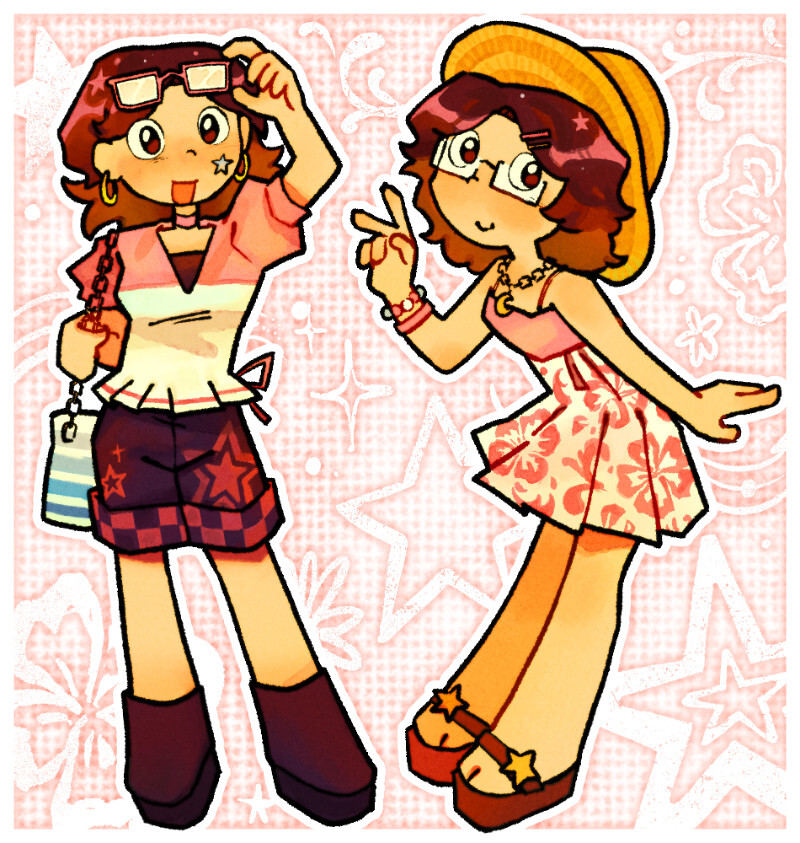
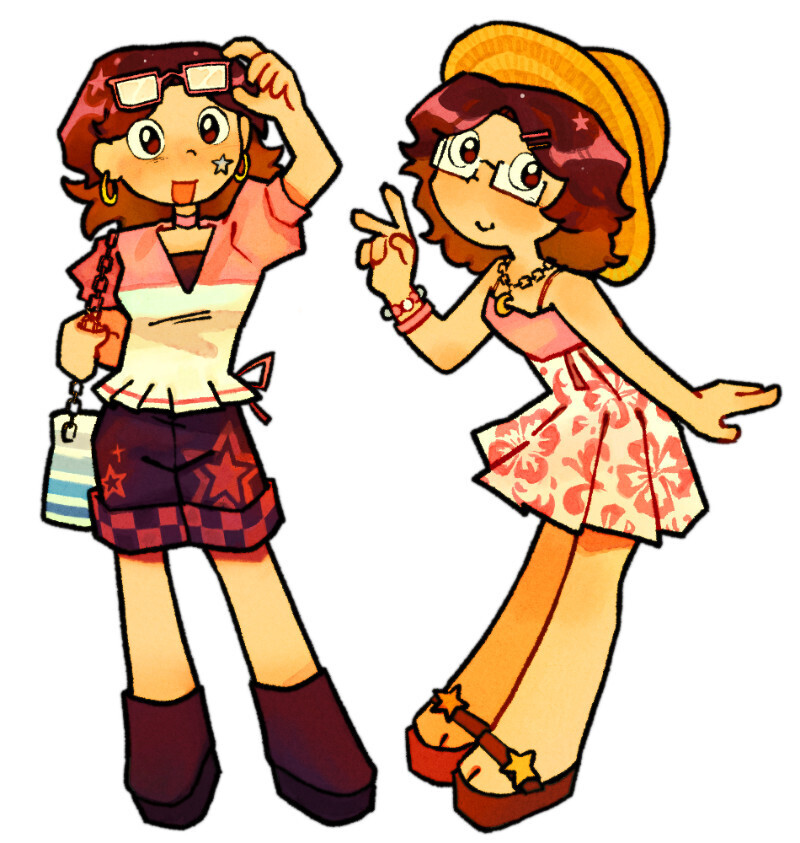
created commission sheet

diff --git a/public/commission/index.html b/public/commission/index.html
@@ -1,0 +1,165 @@
+---
+layout: page
+title: Commission Me!!
+
+js:
+- "/meta/js/lightbox.js"
+
+css:
+- "/commission/main.css"
+
+# status: Open
+status: Close
+
+prices:
+  - type: Head 
+    price: 10
+    pos: 70%
+
+  - type: Half Body
+    price: 15
+    pos: 40%
+
+  - type: Full Body
+    price: 20
+    pos: 5%
+
+abstract: 30
+full: 50
+
+dos:
+- Humans / Feral / Anthro
+- Cheezy Blood Splatters
+- Props and weapons
+
+donts:
+- NSFW / Gore
+- Politics
+- Mecha
+
+process:
+- title: Prerequisite
+  text: |
+    What I should know beforehand:
+    <br>★ Who I'm drawing - reference sheets appreciated!
+    <br>✮ What they're doing and overall vibe of drawing
+    <br>★ Why you want this drawing
+    
+- title: Payment
+  text: Payments done on [Paypal](https://paypal.me/stupiedidiot). First half payed after sketch and the rest once completed. Alternatively, you could pay in full.
+- title: Updates
+  text: |
+    Will provide updates during the following stage:
+    <br>★ thumbnails / initial sketch
+    <br>✮ sketch (w/ rough color)
+    <br>★ final - for last minute changes
+
+---
+
+{% include_cached layout/subnav.liquid data=site.data.nav.commission %}
+
+<article class="padded">
+    <h1><span class="icon-grin"></span> {{ page.title }}!!! <span class="clr-accent-dk">({{ page.status }})</span></h1>
+    
+    <hr>
+
+    <div class="newspaper" style="column-width: 400px;">
+      <div>
+        <h2><span class="icon-tag"></span> Pricing</h2>
+        <h3 class="clr-accent-dk">Without Background</h3>
+        <div class="comm bg-graphed">
+            <img src="./doll.png" alt="" class="comm-doll outline">
+            {% for item in page.prices %}
+              <div class="comm-part" style="bottom: {{ item.pos }}; left: 0;">
+                <h4>
+                  <span>(${{ item.price }})</span>
+                  <span class="clr-accent-dker">{{ item.type }}</span>
+                </h4>
+              </div>
+            {% endfor %}
+        </div>
+
+        <h3 class="clr-accent-dk">With Background</h3>
+        
+        <fieldset>
+          <legend>
+            <h4>
+              <span>(${{ page.abstract }})</span>
+              <span class="clr-accent-dker">Abstract</span>
+            </h4>
+          </legend>
+          <div class="comm-grid lightbox-targets">
+            <img src="/art/img/26/artfight/dwinky.jpg" alt="">
+            <img src="/art/img/26/artfight/falsedawn.jpg" alt="">
+          </div>
+        </fieldset>
+
+        <fieldset>
+          <legend>
+            <h4>
+              <span>(${{ page.full }})</span>
+              <span class="clr-accent-dker">Full Ilustration</span>
+            </h4>
+          </legend>
+
+          <div class="comm-grid lightbox-targets">
+            <img src="/art/img/26/Jay-Walking.jpg" alt="">
+            <img src="/art/img/26/Research.jpg" alt="">
+          </div>
+        </fieldset>
+      </div>
+
+      <div>
+        <fieldset>
+          <legend>
+            <h2><span class="icon-travel-walk"></span> Process</h2>
+          </legend>
+          <div>
+            {% for item in page.process %}
+              <h3>[<span class="clr-accent-dk">{{ forloop.index }}</span>] {{ item.title }}</h3>
+              {{ item.text | markdownify }}
+            {% endfor %}
+          </div>
+        </fieldset>
+
+        <fieldset>
+          <legend>
+            <h2><span class="icon-check-outline"></span> Can Draw</h2>
+          </legend>
+          <div>
+            <ul>
+              {% for item in page.dos %}
+                <li>{{ item }}</li>
+              {% endfor %}
+            </ul>
+          </div>
+        </fieldset>
+
+        
+        <fieldset>
+          <legend>
+            <h2><span class="icon-close-outline"></span> Will NOT Draw</h2>
+          </legend>
+          <div>
+            <ul>
+              {% for item in page.donts %}
+                <li>{{ item }}</li>
+              {% endfor %}
+            </ul>
+          </div>
+        </fieldset>
+
+        <h2><span class="icon-document"></span> Terms of Service</h2>
+        <p>Only for personal use. Otherwise, please specify!</p>
+      </div>
+    </div>
+
+    {% comment %}
+    <hr>
+    <h2><span class="icon-photo"></span> More Examples!!</h2>
+    {% endcomment %}
+
+    <hr>
+    <h2><span class="icon-envelope"></span> Contact</h2>
+    <p>Hmm........... I have an email, I pinky promise... Will set this up properly in the future!!!!</p>
+</article>

diff --git a/public/commission/main.scss b/public/commission/main.scss
@@ -1,0 +1,55 @@
+---
+layout: none
+---
+
+.comm {
+    width: 100%;
+    aspect-ratio: 4/3;
+    position: relative;
+    z-index: 1;
+    border: 1px solid;
+    margin: auto;
+    margin-bottom: 2rem;
+    user-select: none;
+
+    > * {
+        position: absolute;
+    }
+
+    &-doll {
+        right: 0;
+        z-index: 3;
+        display: block;
+        height: 100%;
+        transform: scale(110%);
+    }
+
+    &-part {
+        z-index: 2;
+        width: 100%;
+        border-bottom: 0.3rem dashed var(--color-accent-lter);
+        text-align: left;
+        padding: 0.5rem;
+    }
+
+    &-grid {
+        display: flex;
+        flex-wrap: wrap;
+        gap: 0.5rem;
+        
+        > * {
+            flex: 1;
+            min-width: 200px;
+        }
+
+        img {
+            aspect-ratio: 1/1;
+            object-fit: cover;
+            border-radius: 4px;
+        }
+    }
+}
+
+main fieldset {
+    margin-bottom: 1rem;
+}

diff --git a/public/art/_/index.html b/public/art/_/index.html
@@ -9,7 +9,7 @@
         </div>
 
         <div style="top:52%; left:45%;">
-            <a href="https://ko-fi.com/stupied/commissions" class="stamp" style="--bg: url(/art/img/24/Dear-Diary.jpg);">
+            <a href="/commission/" class="stamp" style="--bg: url(/art/img/24/Dear-Diary.jpg);">
                 <span>Commission</span>
             </a>
         </div>

diff --git a/public/_sass/_defaults.scss b/public/_sass/_defaults.scss
@@ -56,8 +56,13 @@ p, ol, ul, blockquote {
     }
 }
 
-ol li::marker {
-    color: var(--color-gray-lt);
+ol:only-child, ul:only-child,
+li > ol, li > ul {
+    margin-top: 0;
+}
+
+ol > li::marker {
+    color: var(--color-gray);
 }
 
 p > a {

diff --git a/public/meta/js/lightbox.js b/public/meta/js/lightbox.js
@@ -1,6 +1,7 @@
 ---
 layout: none
 targets:
+  - ".lightbox-targets img"
   - "header .header-thumb"
   - ".content img:not(.sign-off)"
   - ".post-feed-thumbnail img"

diff --git a/public/commission/archive.html b/public/commission/archive.html
@@ -9,4 +9,5 @@ filters:
     tag: commission_year
 
   - title: Medium
+  - title: Meta
 ---

diff --git a/public/snail/_commission/26/das_erdbeere.md b/public/snail/_commission/26/das_erdbeere.md
@@ -3,8 +3,6 @@ ext: jpg
 date: 2026-08-06T07:50
 title: Commission for Mags
 alt:
-extra:
-  - 26/das_erdbeere-nobg.jpg
 tags:
   - digital
 ---
